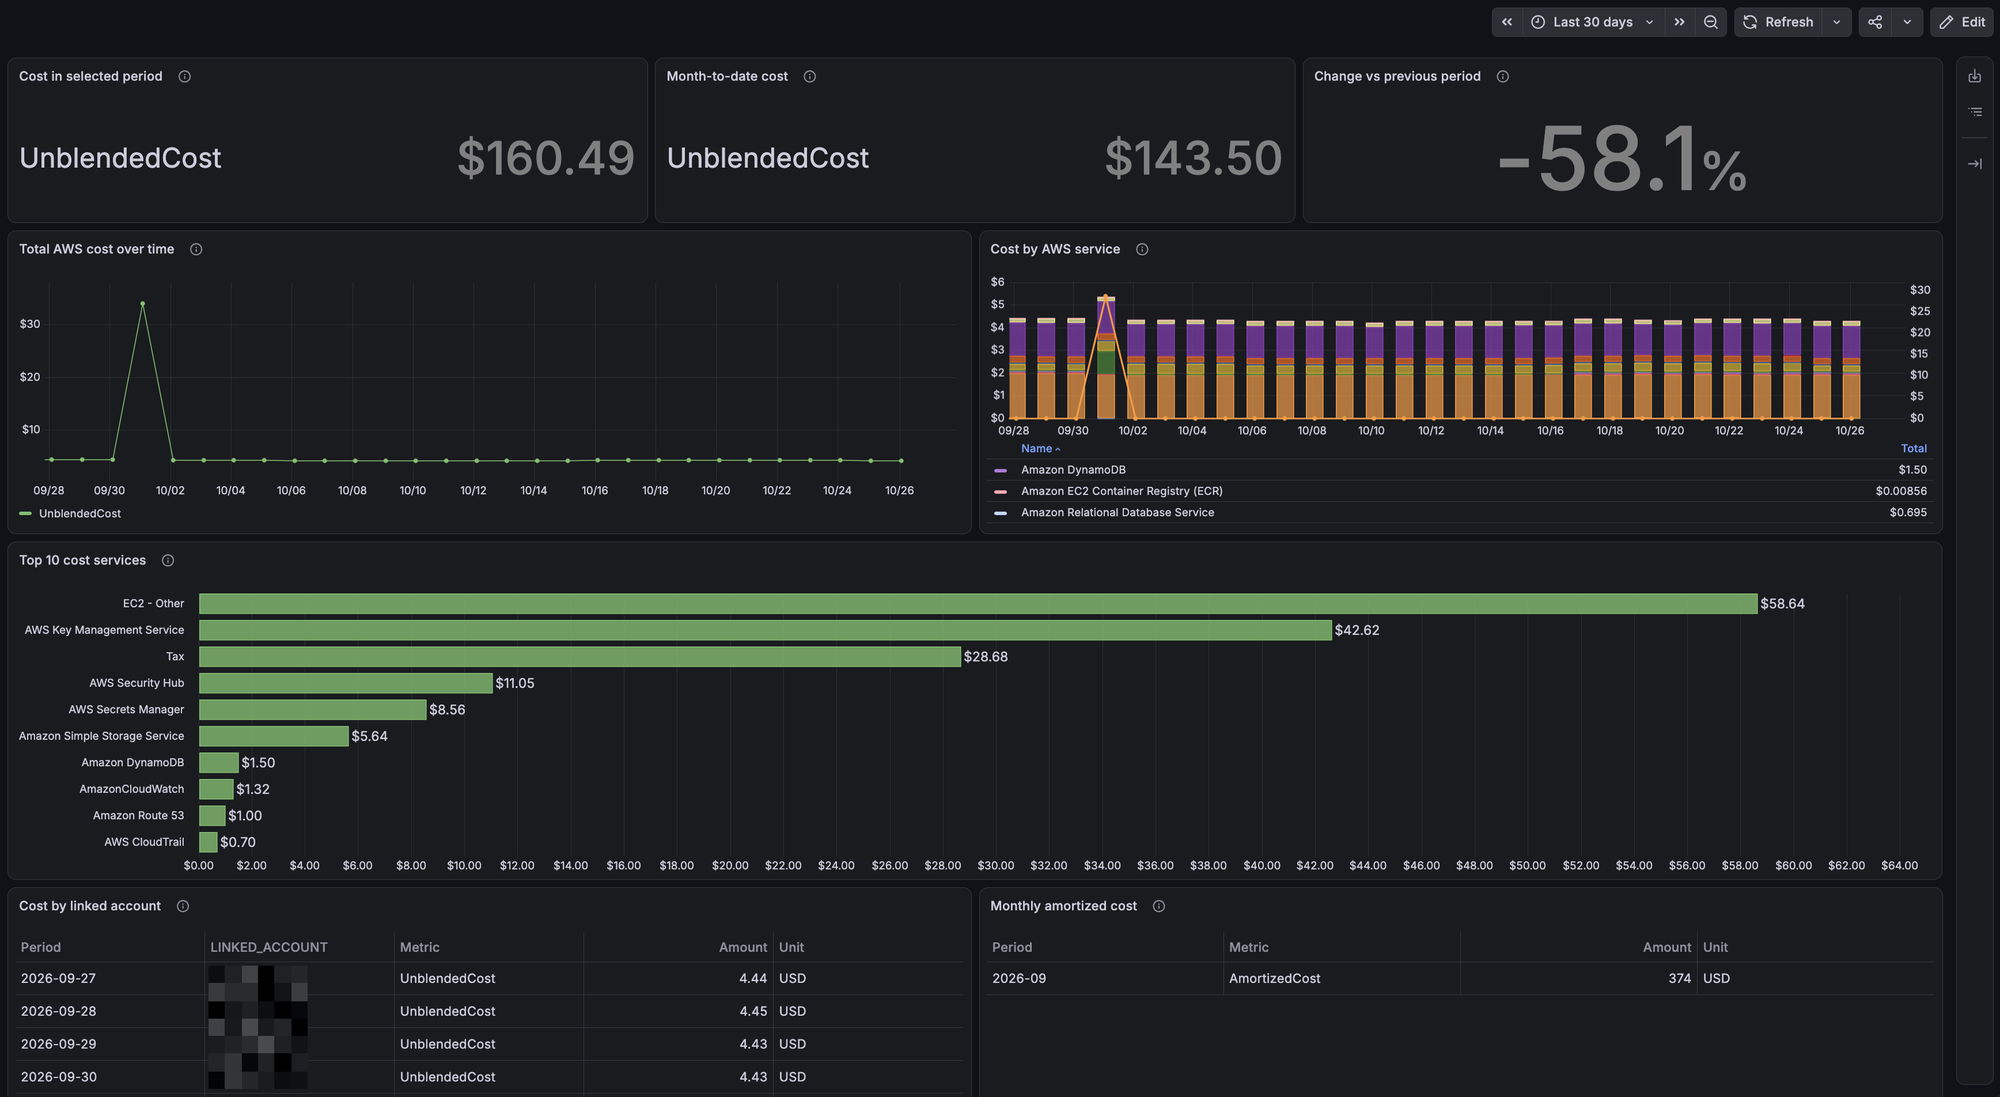
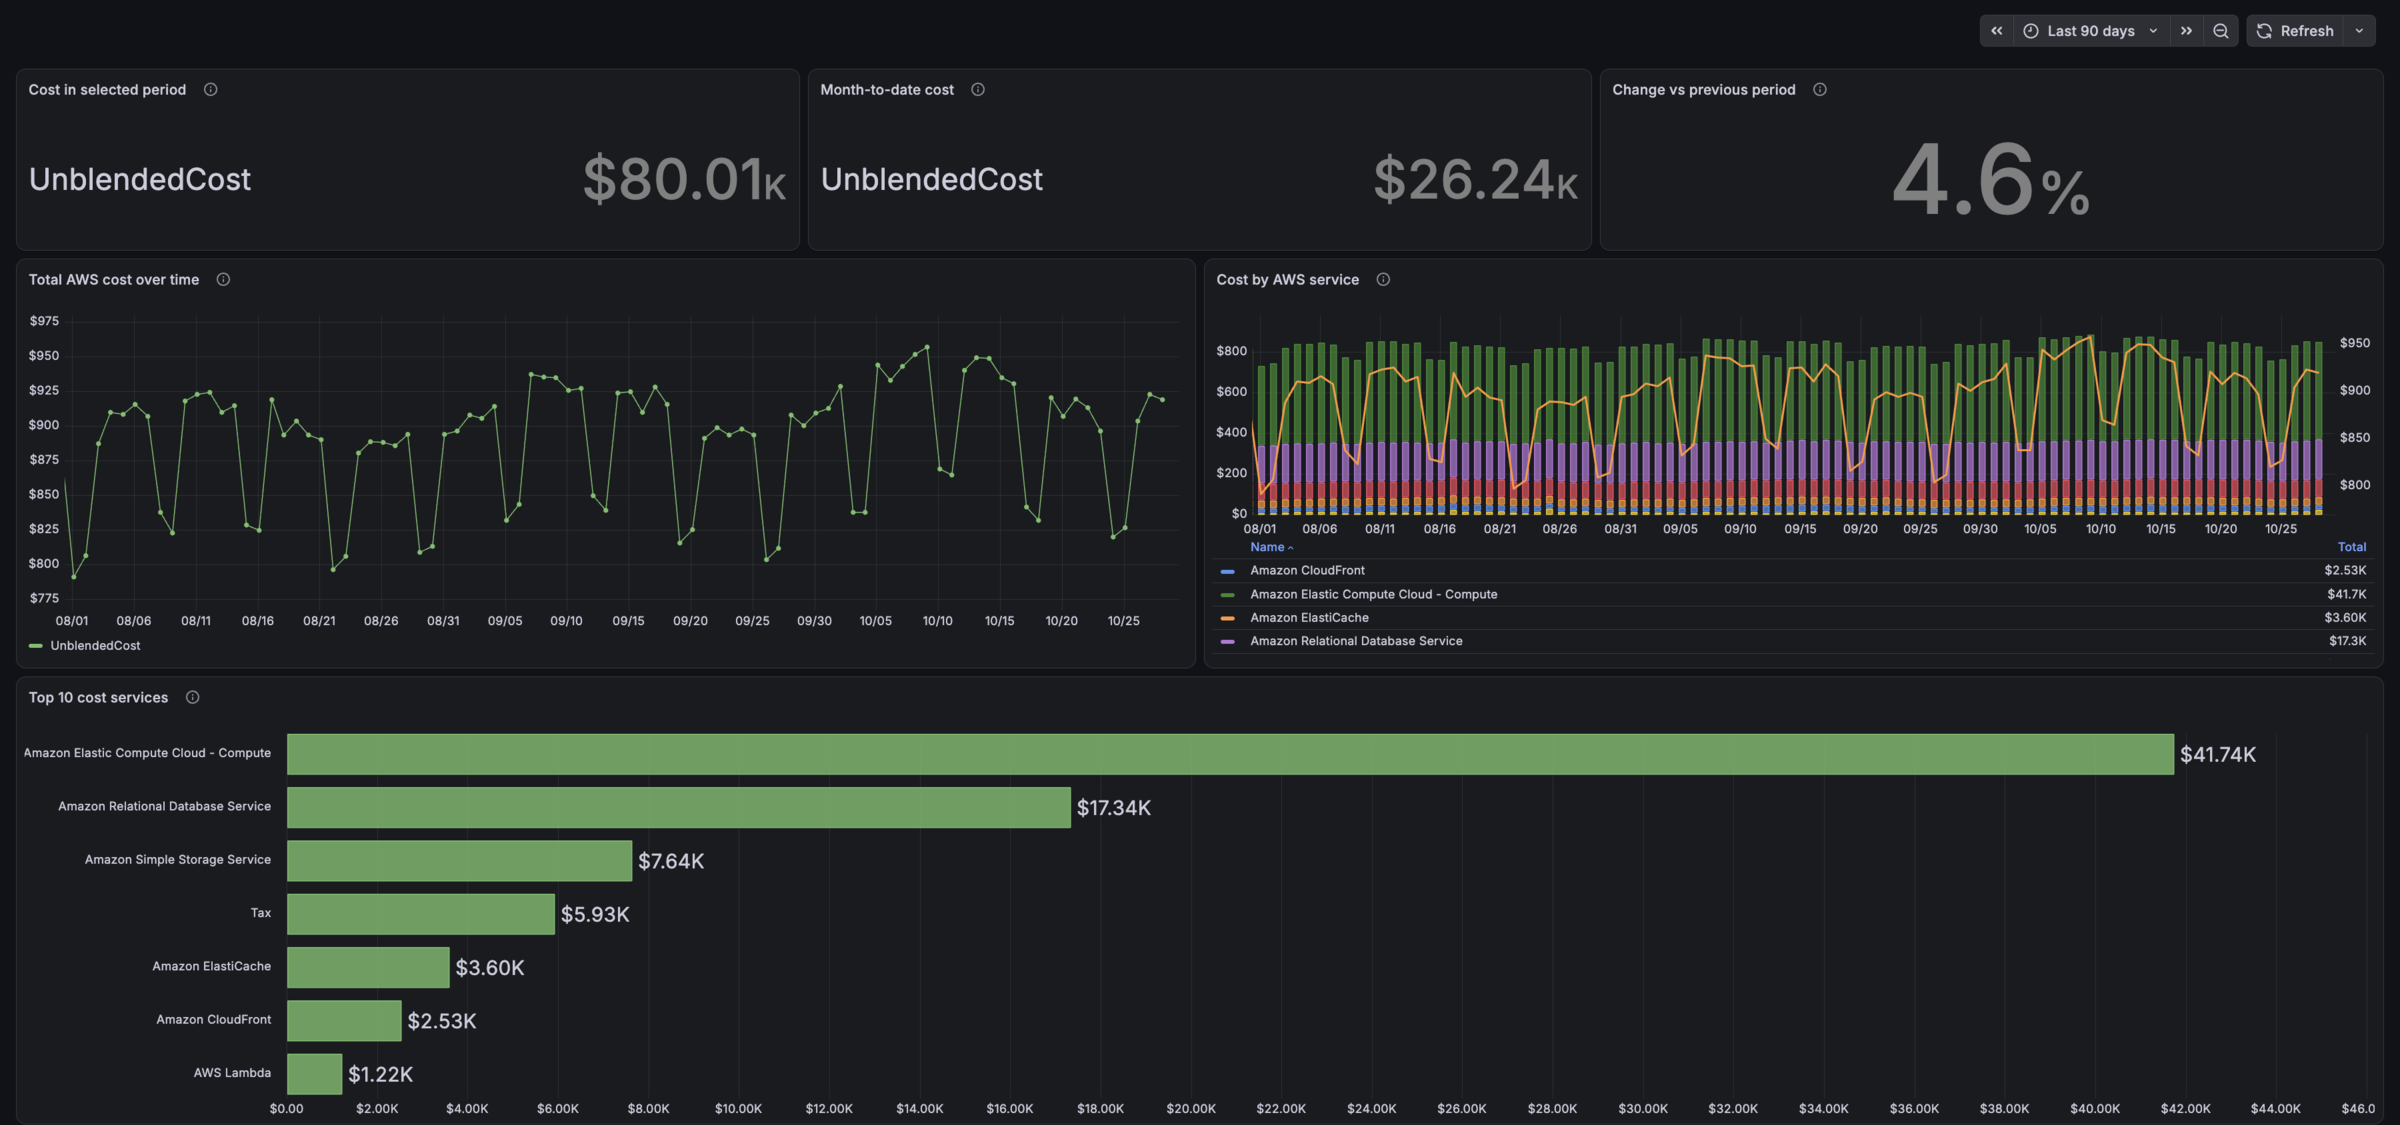
docs: replace redacted screenshots with Mock data captures
Retake the README / plugin catalog screenshots against the Mock data
auth mode so they no longer need blurred or redacted values, and add
screenshots for the Reservation utilization query editor and the data
source configuration page.

diff --git a/README.md b/README.md
@@ -70,16 +70,19 @@ Current features include:
 
 ## Screenshots
 
-The following screenshots use development data or have sensitive values
-redacted; credentials are never included.
+All screenshots are captured against the built-in **Mock data** mode, so they
+show synthetic example data -- no real account IDs, spend, or credentials.
 
-- Data-source authentication and cache configuration: _placeholder_
+- Data-source authentication and cache configuration (Mock data mode shown):
+  ![Data source configuration](docs/screenshots/aws-cost-explorer-datasource-config.png)
 - Visual Cost Explorer query editor:
   ![Cost Explorer query editor](docs/screenshots/aws-cost-explorer-query-editor.png)
+- Reservation utilization query editor:
+  ![Reservation utilization query editor](docs/screenshots/aws-cost-explorer-query-editor-reservations.png)
 - Example FinOps dashboard with summary KPIs:
   ![AWS Cost Explorer dashboard](docs/screenshots/aws-cost-explorer-dashboard.png)
 - Reservation/Savings Plans utilization-vs-coverage trend charts and
-  inventory tables (IDs and other identifying values redacted):
+  inventory tables:
   ![Reservation and Savings Plans utilization, coverage, and inventory](docs/screenshots/aws-cost-explorer-reservations-savings-plans.png)
 - Query Inspector cache and freshness metadata:
   ![Query Inspector metadata](docs/screenshots/aws-cost-explorer-query-inspector.png)

diff --git a/CHANGELOG.md b/CHANGELOG.md
@@ -1,5 +1,20 @@
 # Changelog
 
+## Unreleased
+
+- Make the **Mock data** mode's synthetic data realistic: per-service growth
+  trends, weekday/weekend and slow monthly patterns, and occasional spikes
+  replace the previous flat noise. Totals, per-service, per-account,
+  per-region, and per-tag groupings now come from one cost model and
+  reconcile exactly; tax is a fixed share of the other services; monthly
+  buckets sum their days (and a partial month reads as month-to-date);
+  values depend only on the calendar date, never on the requested range; and
+  the reservation and Savings Plans utilization/coverage series vary like
+  real ones.
+- Replace the redacted screenshots with ones captured against the mock data,
+  and add screenshots of the Reservation utilization query editor and the
+  data source configuration page.
+
 ## 1.1.0 (2026-10-28)
 
 - Add a **Mock data** authentication mode needing no AWS account,
